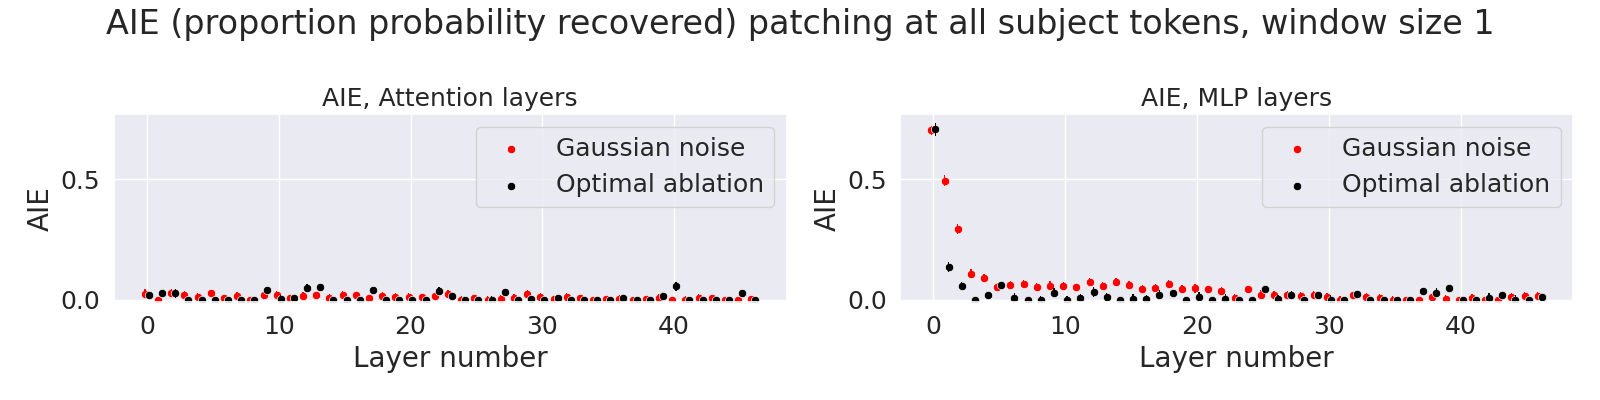
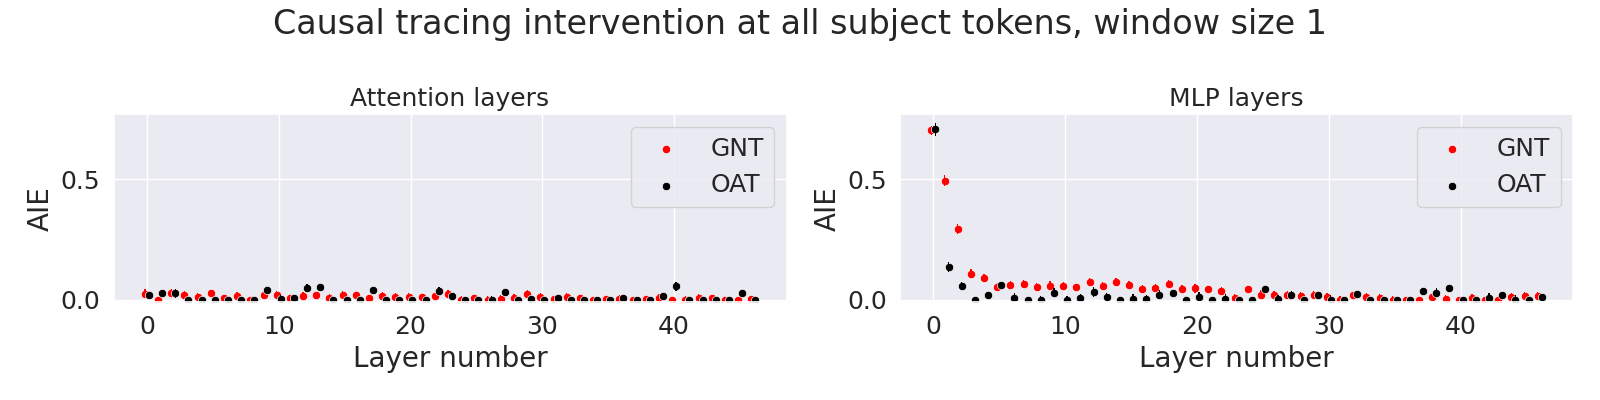
fig2

diff --git a/causal_tracing_plot.py b/causal_tracing_plot.py
@@ -47,7 +47,7 @@ if not os.path.exists(plot_folder):
 # test_start = math.ceil(0.6 * len(correct_prompts))
 test_start = 0
 node_types = {"attn": "Attention", "mlp": "MLP"}
-labels={"gauss": "Gaussian noise", "oa": "Optimal ablation"}
+labels={"gauss": "GNT", "oa": "OAT"}
 colors={"oa": "black", "gauss": "red"}
 token_types={"last": "last token", "last_subject": "last subject token", "all_subject": "all subject tokens"}
 
@@ -193,7 +193,7 @@ for window_size, token_type in settings_list:
             })
 
         axes[i].set(xlabel="Layer number", ylabel="AIE")
-        axes[i].set_title(f"AIE, {node_types[node_type]} layers")
+        axes[i].set_title(f"{node_types[node_type]} layers")
         axes[i].legend()
 
     y1_min, y1_max = axes[0].get_ylim()
@@ -203,7 +203,7 @@ for window_size, token_type in settings_list:
     axes[0].set_ylim(common_min, common_max)
     axes[1].set_ylim(common_min, common_max)
 
-    plt.suptitle(f"AIE (proportion probability recovered) patching at {token_types[token_type]}, window size {(window_size * 2 + 1)}")
+    plt.suptitle(f"Causal tracing intervention at {token_types[token_type]}, window size {(window_size * 2 + 1)}")
 
     plt.tight_layout()
     plt.savefig(f"{plot_folder}/{token_type}_{window_size}.png")
